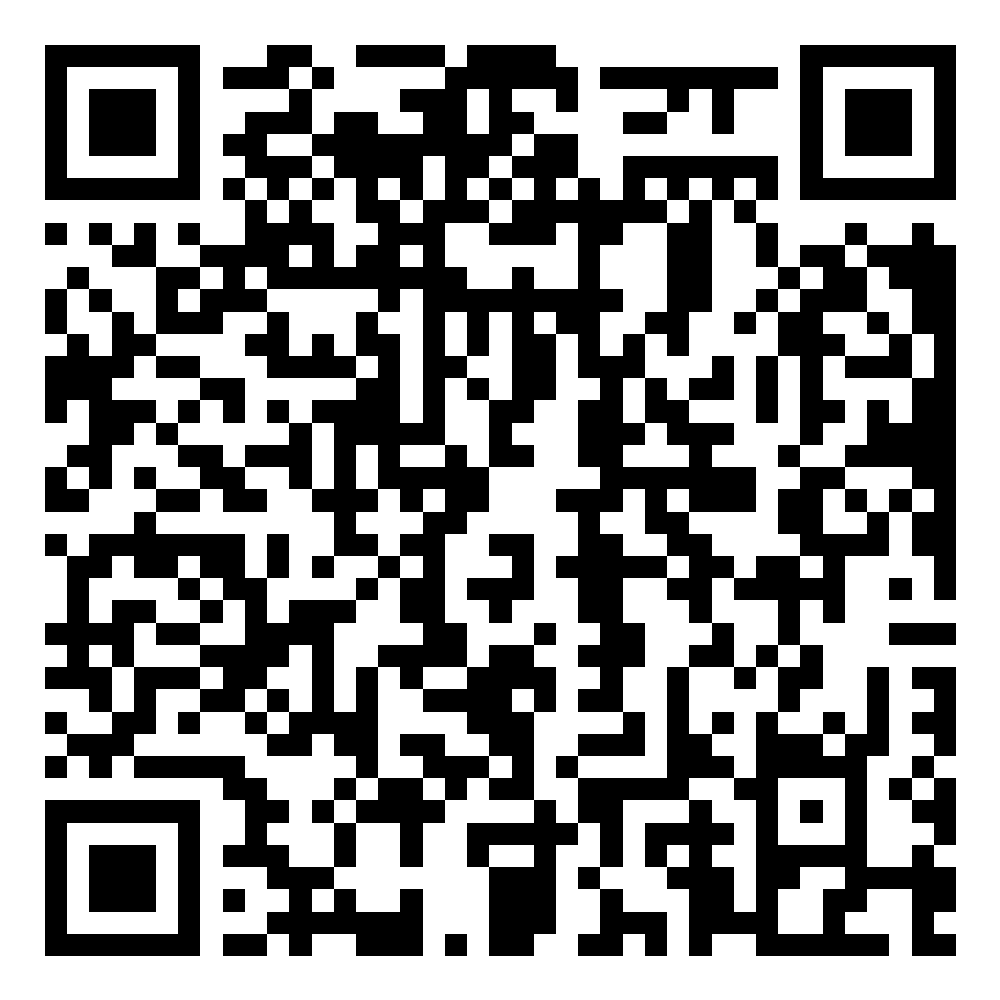
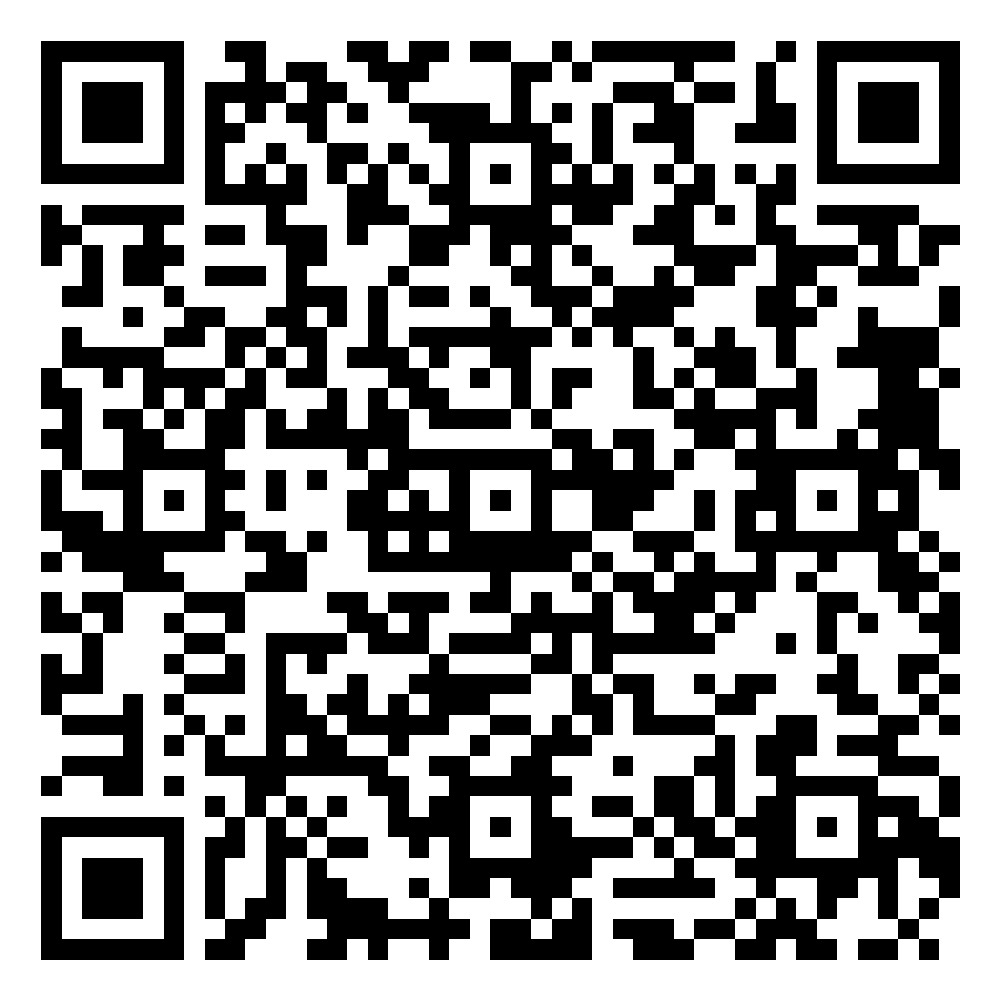
사전조사링크 업데이트

diff --git a/docs/NA/LMS2/docs/notice.html b/docs/NA/LMS2/docs/notice.html
@@ -1098,7 +1098,7 @@ document.addEventListener('click',later,true);document.addEventListener('keyup',
       <!-- Survey Link & QR Card -->
       <div style="background: rgba(255,255,255,0.75); border: 1px solid var(--border-color); border-radius: 16px; padding: 22px; margin-bottom: 28px; display: flex; flex-wrap: wrap; gap: 24px; align-items: center;">
         <div style="width: 140px; height: 140px; border-radius: 12px; overflow: hidden; border: 1px solid var(--border-color); background: #fff; padding: 8px; flex-shrink: 0; box-shadow: 0 4px 12px rgba(36,59,53,0.06);">
-          <img src="img/qr/ai-competency-pre-survey.png" alt="AI 활용 역량 사전 조사 QR 코드" style="width: 100%; height: 100%; object-fit: contain; display: block;" />
+          <img src="img/qr/ai-competency-pre-survey.png?v=20261123" alt="AI 활용 역량 사전 조사 QR 코드" style="width: 100%; height: 100%; object-fit: contain; display: block;" />
         </div>
         <div style="flex: 1; min-width: 240px;">
           <div style="font-weight: 800; color: #243B35; font-size: 1.05rem; margin-bottom: 6px; display: flex; align-items: center; gap: 8px;">
@@ -1108,7 +1108,7 @@ document.addEventListener('click',later,true);document.addEventListener('keyup',
             스마트폰 카메라로 왼쪽의 QR 코드를 비추시거나, 아래 바로가기 버튼을 클릭하여 즉시 설문에 참여하실 수 있습니다.
           </p>
           <div style="display: flex; flex-wrap: wrap; gap: 10px;">
-            <a href="https://docs.google.com/forms/d/e/1FAIpQLSctdox6z03c_v9Nf90CI-YX-MaZqPznCnmxi2d5VcJqOoF64w/viewform" target="_blank" rel="noopener noreferrer" class="btn-primary" style="background:#27765B;color:#FFFFFF;border-radius:10px;padding:10px 18px;display:inline-flex;align-items:center;gap:8px;text-decoration:none;font-weight:700;font-size:0.92rem;">
+            <a href="https://docs.google.com/forms/d/e/1FAIpQLSctdox6z03c_v9Nf90CI-YX-MaZqPznCnmxi2d5VcJqOoF64w/viewform?usp=header" target="_blank" rel="noopener noreferrer" class="btn-primary" style="background:#27765B;color:#FFFFFF;border-radius:10px;padding:10px 18px;display:inline-flex;align-items:center;gap:8px;text-decoration:none;font-weight:700;font-size:0.92rem;">
               <i class="fa-solid fa-arrow-up-right-from-square"></i> 설문지 바로 참여하기
             </a>
             <a href="qr_resources.html" class="btn-secondary" style="border-radius:10px;padding:10px 16px;display:inline-flex;align-items:center;gap:8px;text-decoration:none;font-weight:700;font-size:0.92rem;">
@@ -1143,7 +1143,7 @@ document.addEventListener('click',later,true);document.addEventListener('keyup',
       </div>
 
       <div class="page-bottom-actions">
-        <a href="https://docs.google.com/forms/d/e/1FAIpQLSctdox6z03c_v9Nf90CI-YX-MaZqPznCnmxi2d5VcJqOoF64w/viewform" target="_blank" rel="noopener noreferrer" class="btn-primary" style="background:#27765B;color:#FFFFFF;border-radius:12px;padding:12px 22px;display:inline-flex;align-items:center;gap:8px;text-decoration:none;font-weight:700;">
+        <a href="https://docs.google.com/forms/d/e/1FAIpQLSctdox6z03c_v9Nf90CI-YX-MaZqPznCnmxi2d5VcJqOoF64w/viewform?usp=header" target="_blank" rel="noopener noreferrer" class="btn-primary" style="background:#27765B;color:#FFFFFF;border-radius:12px;padding:12px 22px;display:inline-flex;align-items:center;gap:8px;text-decoration:none;font-weight:700;">
           <i class="fa-solid fa-clipboard-check"></i> 설문 참여하기 (구글 폼)
         </a>
         <a href="#attendance-notice" class="btn-secondary">

diff --git a/docs/NA/LMS2_ENG/docs/notice.html b/docs/NA/LMS2_ENG/docs/notice.html
@@ -1098,7 +1098,7 @@ document.addEventListener('click',later,true);document.addEventListener('keyup',
       <!-- Survey Link & QR Card -->
       <div style="background: rgba(255,255,255,0.75); border: 1px solid var(--border-color); border-radius: 16px; padding: 22px; margin-bottom: 28px; display: flex; flex-wrap: wrap; gap: 24px; align-items: center;">
         <div style="width: 140px; height: 140px; border-radius: 12px; overflow: hidden; border: 1px solid var(--border-color); background: #fff; padding: 8px; flex-shrink: 0; box-shadow: 0 4px 12px rgba(36,59,53,0.06);">
-          <img src="img/qr/ai-competency-pre-survey.png" alt="AI Competency Pre-Survey QR Code" style="width: 100%; height: 100%; object-fit: contain; display: block;" />
+          <img src="img/qr/ai-competency-pre-survey.png?v=20261123" alt="AI Competency Pre-Survey QR Code" style="width: 100%; height: 100%; object-fit: contain; display: block;" />
         </div>
         <div style="flex: 1; min-width: 240px;">
           <div style="font-weight: 800; color: #243B35; font-size: 1.05rem; margin-bottom: 6px; display: flex; align-items: center; gap: 8px;">
@@ -1108,7 +1108,7 @@ document.addEventListener('click',later,true);document.addEventListener('keyup',
             Scan the QR code on the left with your phone camera, or click the direct button below to respond to the survey immediately.
           </p>
           <div style="display: flex; flex-wrap: wrap; gap: 10px;">
-            <a href="https://docs.google.com/forms/d/e/1FAIpQLSctdox6z03c_v9Nf90CI-YX-MaZqPznCnmxi2d5VcJqOoF64w/viewform" target="_blank" rel="noopener noreferrer" class="btn-primary" style="background:#27765B;color:#FFFFFF;border-radius:10px;padding:10px 18px;display:inline-flex;align-items:center;gap:8px;text-decoration:none;font-weight:700;font-size:0.92rem;">
+            <a href="https://docs.google.com/forms/d/e/1FAIpQLSctdox6z03c_v9Nf90CI-YX-MaZqPznCnmxi2d5VcJqOoF64w/viewform?usp=header" target="_blank" rel="noopener noreferrer" class="btn-primary" style="background:#27765B;color:#FFFFFF;border-radius:10px;padding:10px 18px;display:inline-flex;align-items:center;gap:8px;text-decoration:none;font-weight:700;font-size:0.92rem;">
               <i class="fa-solid fa-arrow-up-right-from-square"></i> Open Survey Form
             </a>
             <a href="qr_resources.html" class="btn-secondary" style="border-radius:10px;padding:10px 16px;display:inline-flex;align-items:center;gap:8px;text-decoration:none;font-weight:700;font-size:0.92rem;">
@@ -1143,7 +1143,7 @@ document.addEventListener('click',later,true);document.addEventListener('keyup',
       </div>
 
       <div class="page-bottom-actions">
-        <a href="https://docs.google.com/forms/d/e/1FAIpQLSctdox6z03c_v9Nf90CI-YX-MaZqPznCnmxi2d5VcJqOoF64w/viewform" target="_blank" rel="noopener noreferrer" class="btn-primary" style="background:#27765B;color:#FFFFFF;border-radius:12px;padding:12px 22px;display:inline-flex;align-items:center;gap:8px;text-decoration:none;font-weight:700;">
+        <a href="https://docs.google.com/forms/d/e/1FAIpQLSctdox6z03c_v9Nf90CI-YX-MaZqPznCnmxi2d5VcJqOoF64w/viewform?usp=header" target="_blank" rel="noopener noreferrer" class="btn-primary" style="background:#27765B;color:#FFFFFF;border-radius:12px;padding:12px 22px;display:inline-flex;align-items:center;gap:8px;text-decoration:none;font-weight:700;">
           <i class="fa-solid fa-clipboard-check"></i> Complete Survey (Google Form)
         </a>
         <a href="#attendance-notice" class="btn-secondary">

diff --git a/docs/NA/LMS2/docs/qr_resources.html b/docs/NA/LMS2/docs/qr_resources.html
@@ -767,8 +767,8 @@ document.addEventListener('click',later,true);document.addEventListener('keyup',
 
         <div class="qr-card-body">
           <div class="qr-image-wrapper"
-            onclick="openQrModal('img/qr/ai-competency-pre-survey.png', 'AI 활용 역량 사전 조사', '휴대폰 기본 카메라 앱을 열고 아래 QR 코드를 비추면 설문 페이지로 자동 이동합니다.', 'https://docs.google.com/forms/d/e/1FAIpQLSctdox6z03c_v9Nf90CI-YX-MaZqPznCnmxi2d5VcJqOoF64w/viewform')">
-            <img src="img/qr/ai-competency-pre-survey.png" alt="AI 활용 역량 사전 조사 QR 코드" width="1000" height="1000" />
+            onclick="openQrModal('img/qr/ai-competency-pre-survey.png?v=20261123', 'AI 활용 역량 사전 조사', '휴대폰 기본 카메라 앱을 열고 아래 QR 코드를 비추면 설문 페이지로 자동 이동합니다.', 'https://docs.google.com/forms/d/e/1FAIpQLSctdox6z03c_v9Nf90CI-YX-MaZqPznCnmxi2d5VcJqOoF64w/viewform?usp=header')">
+            <img src="img/qr/ai-competency-pre-survey.png?v=20261123" alt="AI 활용 역량 사전 조사 QR 코드" width="1000" height="1000" />
             <span class="zoom-hint"><i class="fa-solid fa-magnifying-glass-plus"></i></span>
           </div>
           <div class="qr-info-right">
@@ -783,10 +783,10 @@ document.addEventListener('click',later,true);document.addEventListener('keyup',
 
         <div class="qr-card-actions">
           <button class="btn-action primary"
-            onclick="openQrModal('img/qr/ai-competency-pre-survey.png', 'AI 활용 역량 사전 조사', '스마트폰 카메라로 스캔하거나 아래 링크를 통해 바로 응답하실 수 있습니다.', 'https://docs.google.com/forms/d/e/1FAIpQLSctdox6z03c_v9Nf90CI-YX-MaZqPznCnmxi2d5VcJqOoF64w/viewform')">
+            onclick="openQrModal('img/qr/ai-competency-pre-survey.png?v=20261123', 'AI 활용 역량 사전 조사', '스마트폰 카메라로 스캔하거나 아래 링크를 통해 바로 응답하실 수 있습니다.', 'https://docs.google.com/forms/d/e/1FAIpQLSctdox6z03c_v9Nf90CI-YX-MaZqPznCnmxi2d5VcJqOoF64w/viewform?usp=header')">
             <i class="fa-solid fa-expand"></i> QR 크게 보기
           </button>
-          <a href="https://docs.google.com/forms/d/e/1FAIpQLSctdox6z03c_v9Nf90CI-YX-MaZqPznCnmxi2d5VcJqOoF64w/viewform" target="_blank" rel="noopener noreferrer" class="btn-action secondary">
+          <a href="https://docs.google.com/forms/d/e/1FAIpQLSctdox6z03c_v9Nf90CI-YX-MaZqPznCnmxi2d5VcJqOoF64w/viewform?usp=header" target="_blank" rel="noopener noreferrer" class="btn-action secondary">
             <i class="fa-solid fa-arrow-up-right-from-square"></i> 새 창에서 보기
           </a>
         </div>

diff --git a/docs/NA/LMS2_ENG/docs/qr_resources.html b/docs/NA/LMS2_ENG/docs/qr_resources.html
@@ -767,8 +767,8 @@ document.addEventListener('click',later,true);document.addEventListener('keyup',
 
         <div class="qr-card-body">
           <div class="qr-image-wrapper"
-            onclick="openQrModal('img/qr/ai-competency-pre-survey.png', 'AI Skills Pre-Survey', 'Open your phone camera app and point it at the QR code below to go to the survey page automatically.', 'https://docs.google.com/forms/d/e/1FAIpQLSctdox6z03c_v9Nf90CI-YX-MaZqPznCnmxi2d5VcJqOoF64w/viewform')">
-            <img src="img/qr/ai-competency-pre-survey.png" alt="AI skills pre-survey QR code" width="1000" height="1000" />
+            onclick="openQrModal('img/qr/ai-competency-pre-survey.png?v=20261123', 'AI Skills Pre-Survey', 'Open your phone camera app and point it at the QR code below to go to the survey page automatically.', 'https://docs.google.com/forms/d/e/1FAIpQLSctdox6z03c_v9Nf90CI-YX-MaZqPznCnmxi2d5VcJqOoF64w/viewform?usp=header')">
+            <img src="img/qr/ai-competency-pre-survey.png?v=20261123" alt="AI skills pre-survey QR code" width="1000" height="1000" />
             <span class="zoom-hint"><i class="fa-solid fa-magnifying-glass-plus"></i></span>
           </div>
           <div class="qr-info-right">
@@ -783,10 +783,10 @@ document.addEventListener('click',later,true);document.addEventListener('keyup',
 
         <div class="qr-card-actions">
           <button class="btn-action primary"
-            onclick="openQrModal('img/qr/ai-competency-pre-survey.png', 'AI Skills Pre-Survey', 'Scan with your phone camera or respond right away using the link below.', 'https://docs.google.com/forms/d/e/1FAIpQLSctdox6z03c_v9Nf90CI-YX-MaZqPznCnmxi2d5VcJqOoF64w/viewform')">
+            onclick="openQrModal('img/qr/ai-competency-pre-survey.png?v=20261123', 'AI Skills Pre-Survey', 'Scan with your phone camera or respond right away using the link below.', 'https://docs.google.com/forms/d/e/1FAIpQLSctdox6z03c_v9Nf90CI-YX-MaZqPznCnmxi2d5VcJqOoF64w/viewform?usp=header')">
             <i class="fa-solid fa-expand"></i> Enlarge QR
           </button>
-          <a href="https://docs.google.com/forms/d/e/1FAIpQLSctdox6z03c_v9Nf90CI-YX-MaZqPznCnmxi2d5VcJqOoF64w/viewform" target="_blank" rel="noopener noreferrer" class="btn-action secondary">
+          <a href="https://docs.google.com/forms/d/e/1FAIpQLSctdox6z03c_v9Nf90CI-YX-MaZqPznCnmxi2d5VcJqOoF64w/viewform?usp=header" target="_blank" rel="noopener noreferrer" class="btn-action secondary">
             <i class="fa-solid fa-arrow-up-right-from-square"></i> View in new window
           </a>
         </div>
